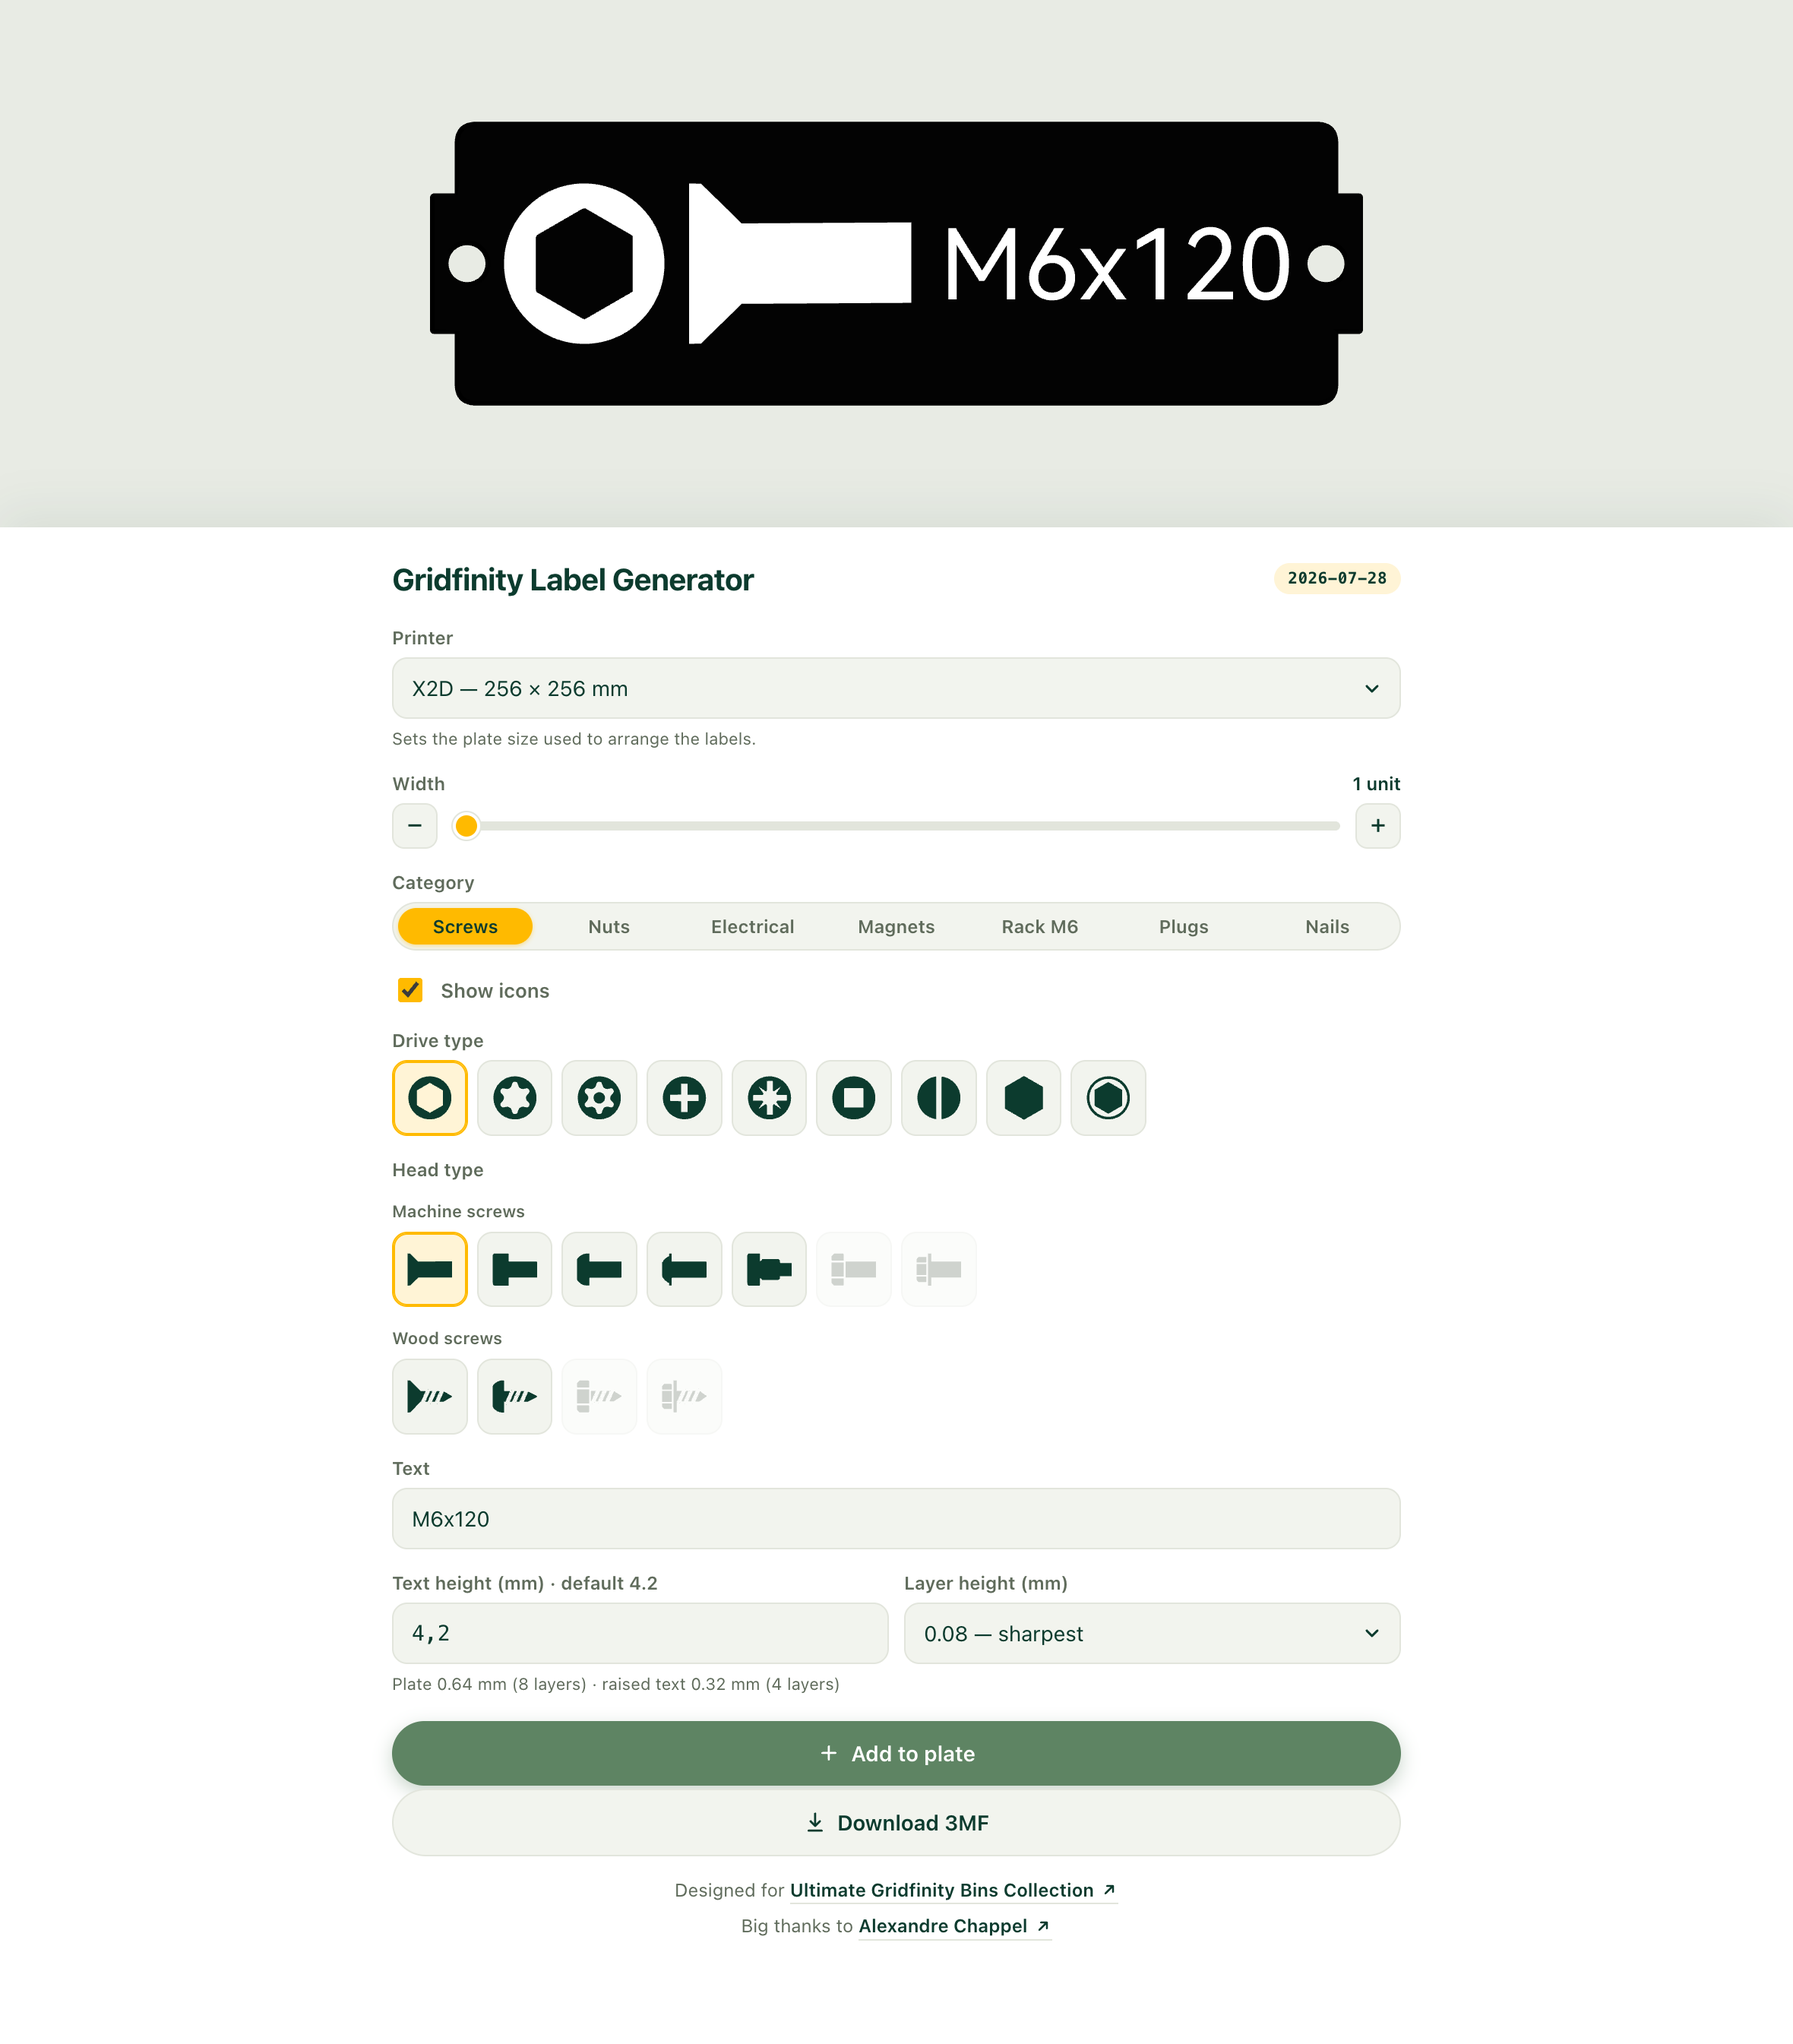
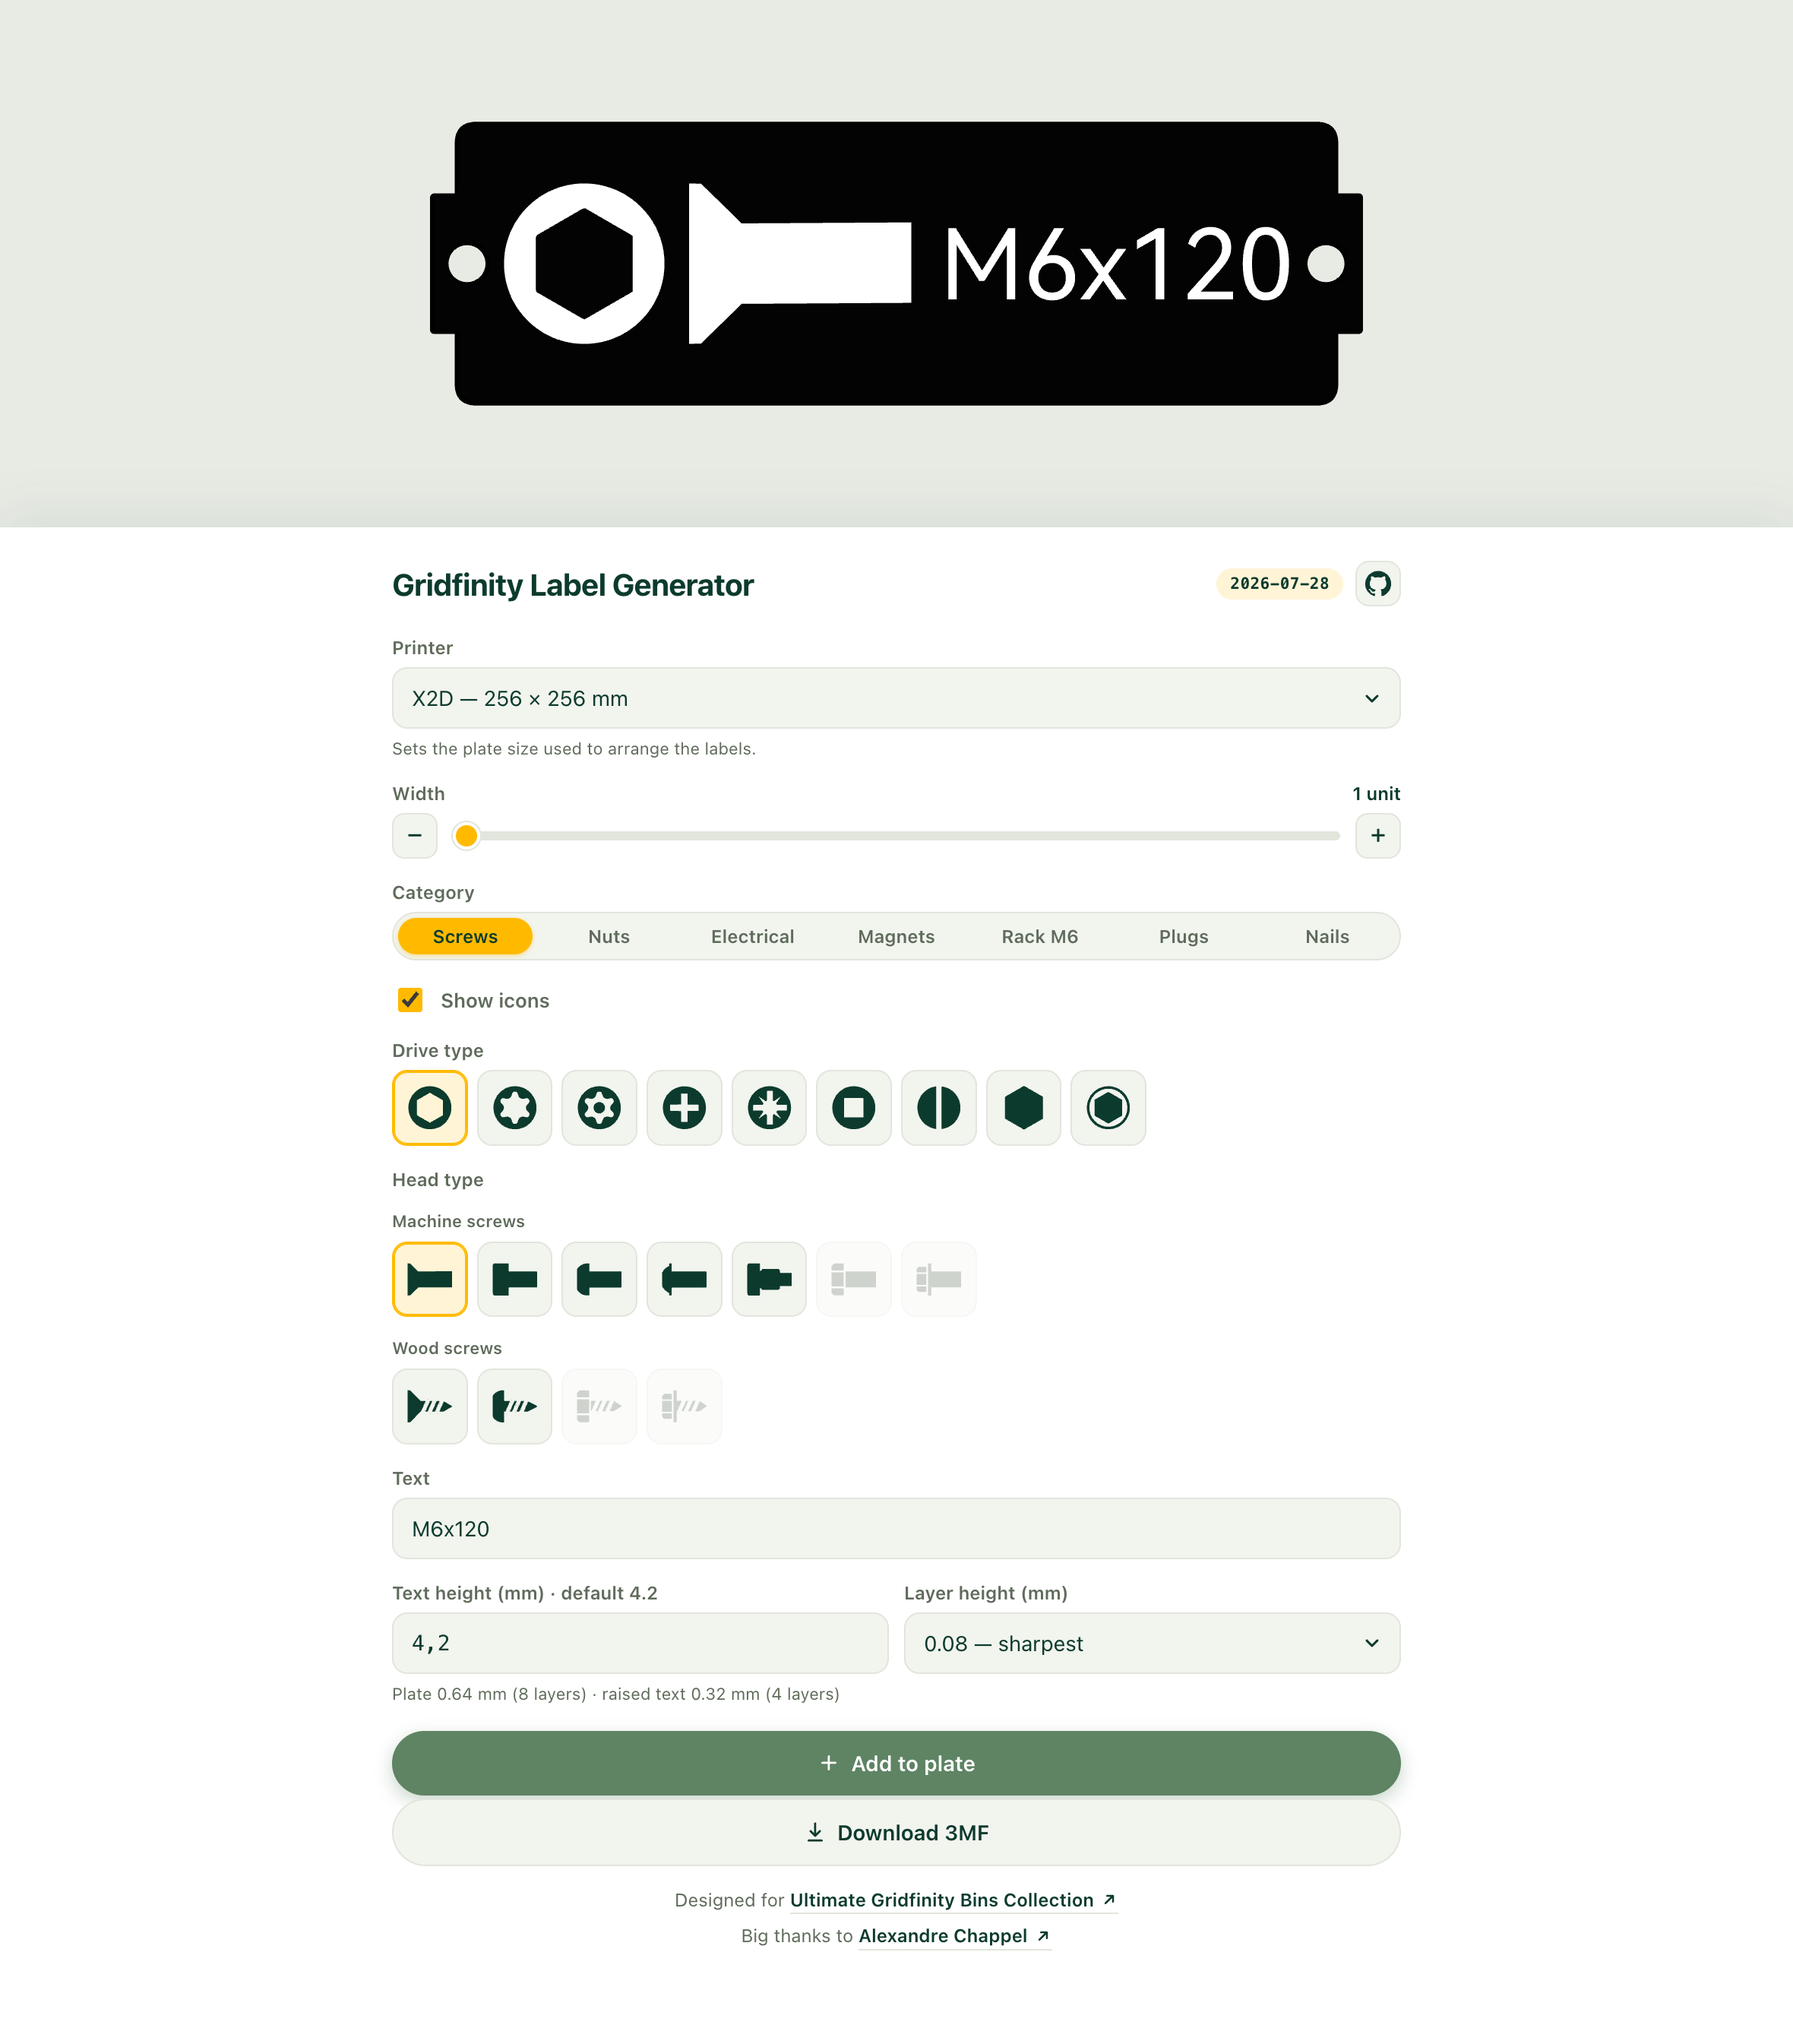
docs: reformuler l'accroche et rafraichir la capture
L'accroche du README devient « Customizable Gridfinity Label », alignee
sur la description du depot. La capture est reprise depuis le site
publie pour montrer le bouton GitHub de l'en-tete.

diff --git a/README.md b/README.md
@@ -1,6 +1,6 @@
 # Gridfinity Label Generator
 
-Design printable Gridfinity bin labels in the browser and export them as a ready-to-slice 3MF plate.
+Customizable Gridfinity Label
 
 **→ [moifort.github.io/label-generator](https://moifort.github.io/label-generator/)**
 
